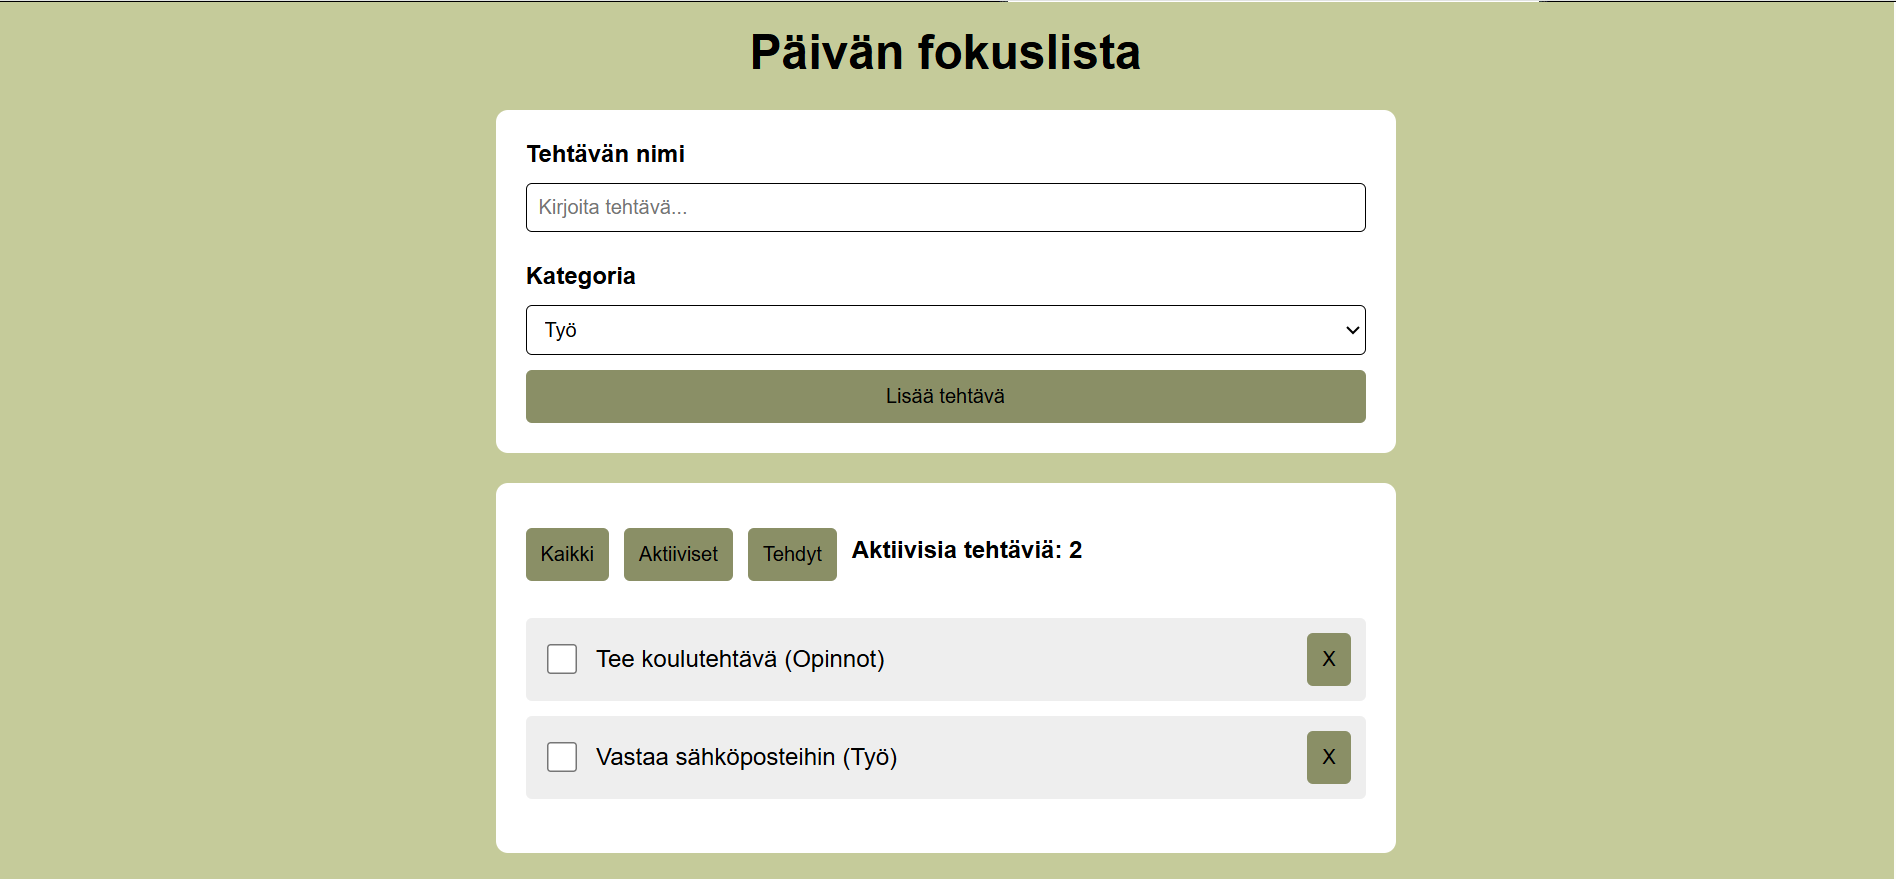
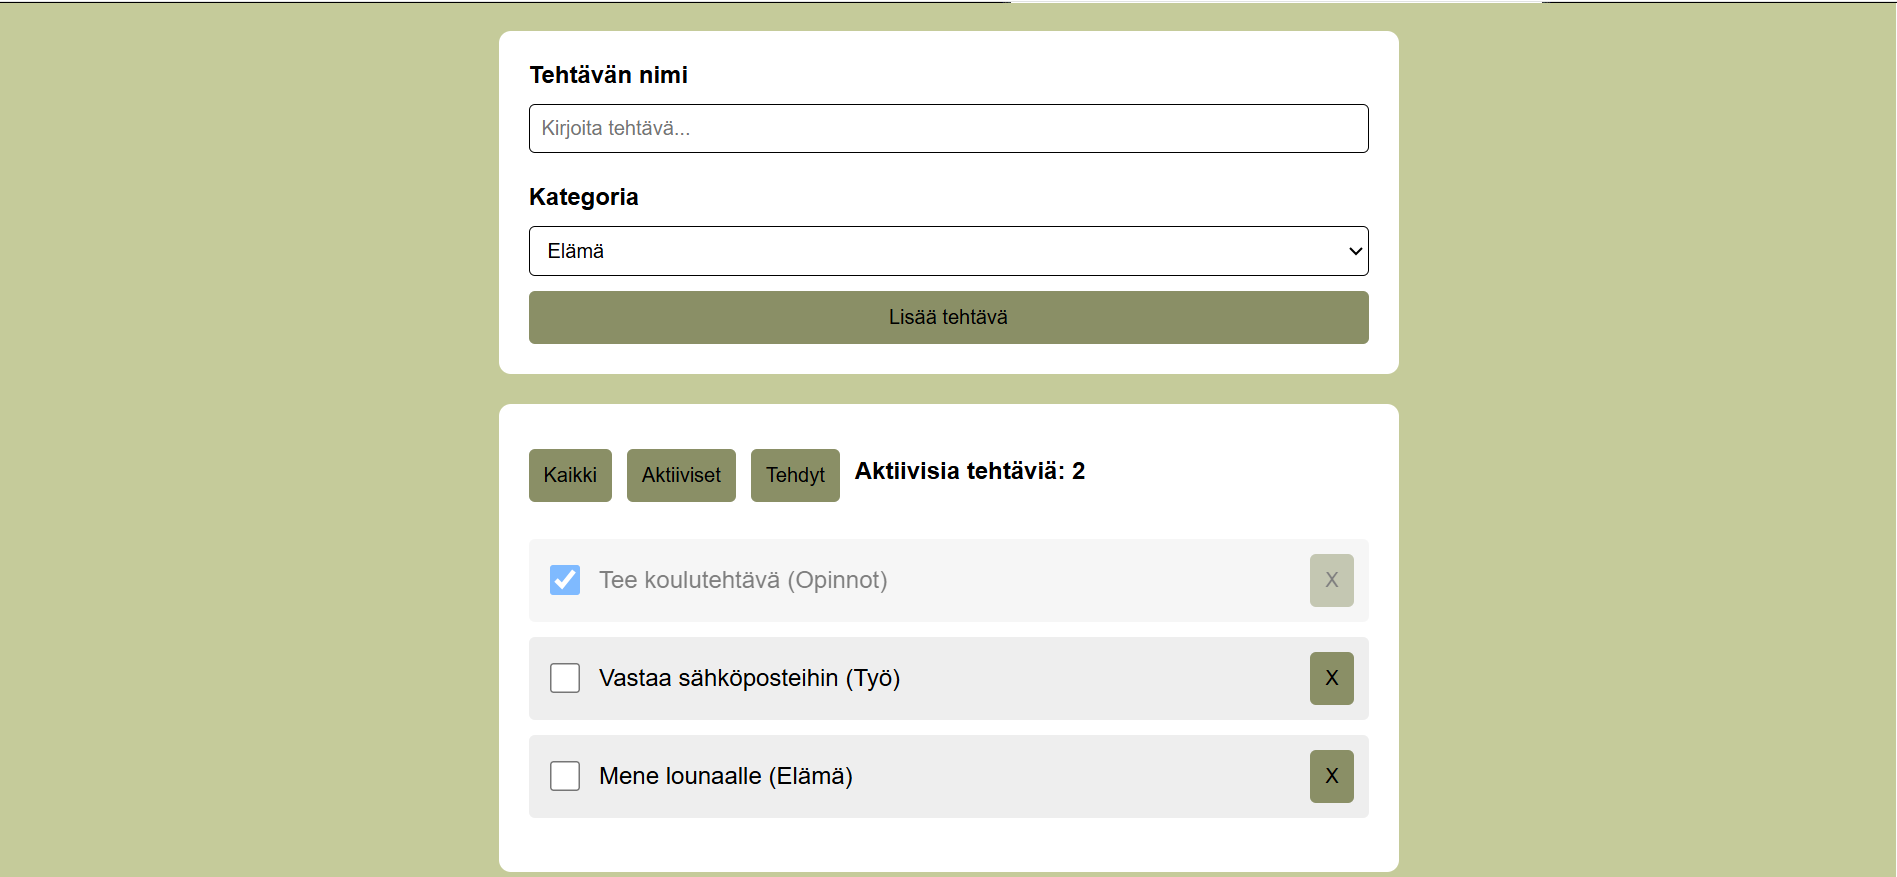
m

diff --git a/README.md b/README.md
@@ -59,11 +59,10 @@ Kirjoita lyhyet käyttöohjeet sovellukselle.
 
 ## Kuvakaappaukset
 
-Lisää tähän vähintään yksi kuvakaappaus toimivasta sovelluksestasi.
-
-Esimerkki kuvan lisäämisestä:
-
-![Kuvakaappaus sovelluksesta](img/screenshot.png)
+![Kuvakaappaus sovelluksesta](img/valmis1.png)
+![Kuvakaappaus sovelluksesta](img/valmis2.png)
+![Kuvakaappaus sovelluksesta](img/valmis3.png)
+![Kuvakaappaus sovelluksesta](img/valmis4.png)
 
 ## Tunnetut virheet / puutteet
 
